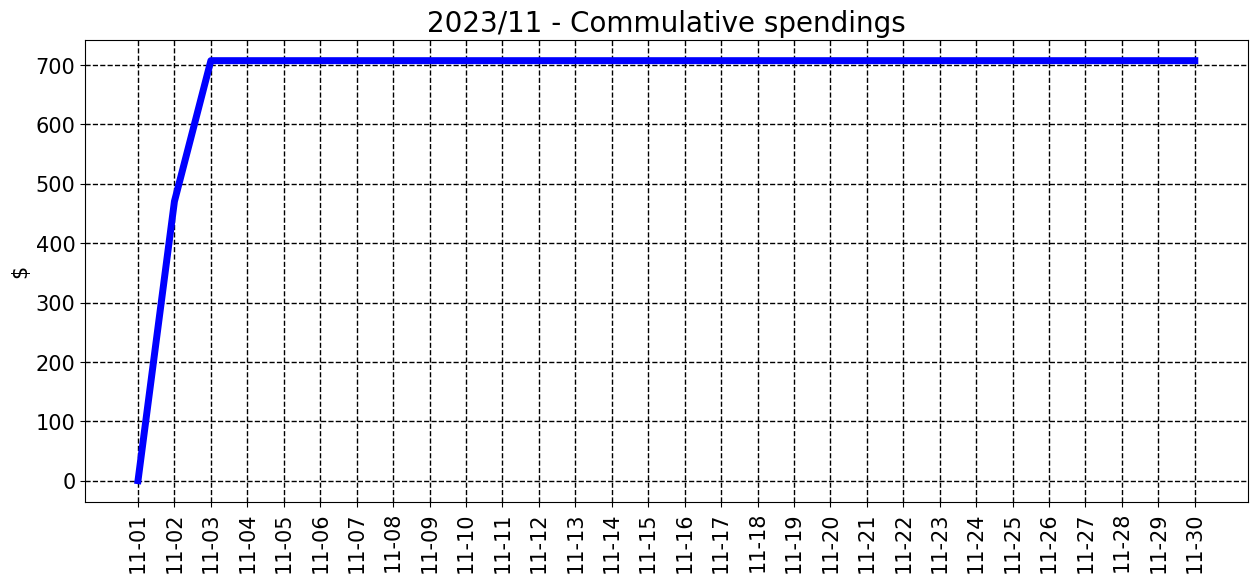
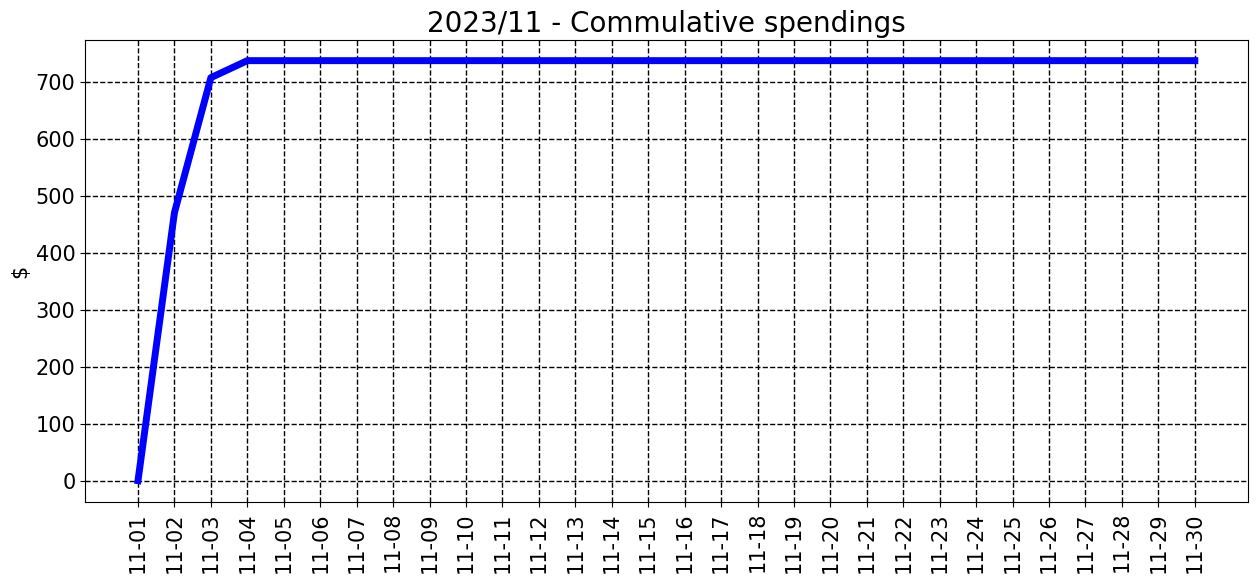
commit from python

diff --git a/README.md b/README.md
@@ -7,7 +7,7 @@ __________________________________
 <sub><sup>
 | Spent | Avg daily | End of month projection | Spent since 2023/7 |
 |---|---|---|---|
-| $707.0  |  $176.8  | $5304.0  |  $21011.0  |
+| $737.0  |  $184.3  | $5529.0  |  $21041.0  |
 </sub></sup>
 __________________________________
 ![graph_11_sum](graph_11_sum.png)
